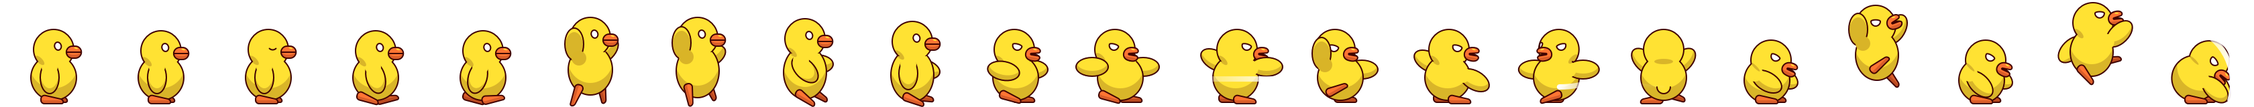
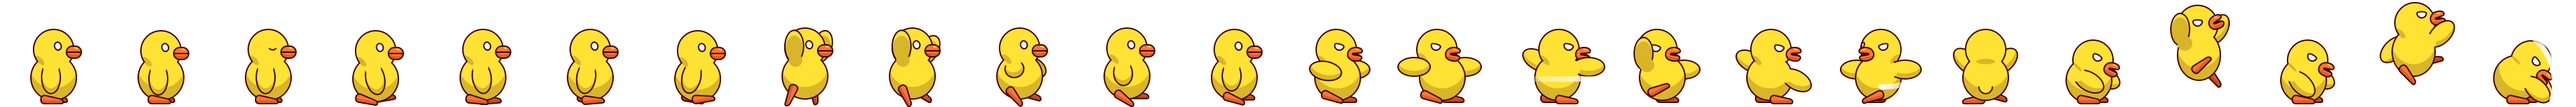
a

diff --git a/style.css b/style.css
@@ -712,6 +712,7 @@ input:focus {
 	animation-name:walk;
 	transition: none;
 	animation-iteration-count: infinite;
+	animation-direction: alternate;
 }
 [mode=jump] {
 	animation-name: jump;
@@ -743,51 +744,52 @@ input:focus {
 }
 @keyframes walk {
 	0% { background-position-x: -240px; }
-	25% { background-position-x: 0; }
-	50% { background-position-x: -320px; }
-	75% { background-position-x: 0; }
+	20% { background-position-x: -320px; }
+	40% { background-position-x: 0px; }
+	60% { background-position-x: -400px; }
+	80% { background-position-x: -480px; }
 }
 @keyframes jump {
-	0% { background-position-x: -400px; }
-	25% { background-position-x: -480px; }
-	50% { background-position-x: -560px; }
-	75% { background-position-x: -640px; }
-	100% { background-position-x: -640px; }
+	0% { background-position-x: -560px; }
+	20% { background-position-x: -640px; }
+	40% { background-position-x: -720px; }
+	60% { background-position-x: -800px; }
+	80% { background-position-x: -880px; }
 }
 @keyframes atk-1 {
-	0% { background-position-x: -720px; }
-	25% { background-position-x: -800px; }
-	50% { background-position-x: -880px; }
+	0% { background-position-x: -960px; }
+	25% { background-position-x: -1040px; }
+	50% { background-position-x: -1120px; }
 }
 @keyframes atk-2 {
-	0% { background-position-x: -720px; }
-	25% { background-position-x: -960px; }
-	50% { background-position-x: -1040px; }
+	0% { background-position-x: -960px; }
+	25% { background-position-x: -1200px; }
+	50% { background-position-x: -1280px; }
 }
 @keyframes atk-3 {
-	0% { background-position-x: -1120px; }
-	25% { background-position-x: -1200px; }
-	50% { background-position-x: -1040px; }
+	0% { background-position-x: -1360px; }
+	25% { background-position-x: -1440px; }
+	50% { background-position-x: -1280px; }
 }
 @keyframes atk-4 {
-	0% { background-position-x: -1280px; }
-	25% { background-position-x: -1360px; }
-	50% { background-position-x: -1040px; }
+	0% { background-position-x: -1520px; }
+	25% { background-position-x: -1600px; }
+	50% { background-position-x: -1280px; }
 }
 @keyframes atk-5 {
-	0% { background-position-x: -1280px; }
-	25% { background-position-x: -1440px; }
-	50% { background-position-x: -1520px; }
+	0% { background-position-x: -1520px; }
+	25% { background-position-x: -1680px; }
+	50% { background-position-x: -1760px; }
 }
 @keyframes atk-6 {
-	0% { background-position-x: -1280px; }
-	25% { background-position-x: -1360px; }
-	50% { background-position-x: -1600px; }
+	0% { background-position-x: -1520px; }
+	25% { background-position-x: -1600px; }
+	50% { background-position-x: -1840px; }
 }
 @keyframes atk-7 {
-	0% { background-position-x: -720px; }
-	25% { background-position-x: -800px; }
-	50% { background-position-x: -800px; }
+	0% { background-position-x: -960px; }
+	25% { background-position-x: -1040px; }
+	50% { background-position-x: -1040px; }
 }
 .skill {
 	width:600px;
@@ -835,29 +837,29 @@ input:focus {
 }
 [mode=walk] .weapon {
 	animation-name:weapon-walk;
-	animation-iteration-count: infinite;
 	transform: rotate(70deg);
-	/* animation-timing-function: linear; */
+	animation-direction: alternate;
 }
 [mode=jump] .weapon {
 	animation-name: weapon-jump;
 }
 @keyframes weapon-rest {
-	0% { left:-11; bottom:-21; transform: rotate(60deg)}
-	50% { left:-11; bottom:-22; transform:rotate(62deg) }
+	0% { left:-11; bottom:-21; transform: rotate(65deg)}
+	50% { left:-11; bottom:-22; transform:rotate(67deg) }
 }
 @keyframes weapon-walk {
-	0% { left:-7px; bottom:-22px; transform: rotate(55deg) }
-	25% { left:-10px; bottom:-21px; transform: rotate(60deg) }
-	50% { left:-13px; bottom:-22px; transform: rotate(65deg) }
-	75% { left:-10px; bottom:-21px;transform: rotate(60deg)}
-	100% { left:-7px; bottom:-22px; transform: rotate(55deg) }
+	0% { left:-7px; bottom:-21px; transform: rotate(62deg) }
+	20% { left:-9px; bottom:-22px; transform: rotate(64deg) }
+	40% { left:-11px; bottom:-23px; transform: rotate(66deg) }
+	60% { left:-13px; bottom:-22px;transform: rotate(68deg)}
+	80% { left:-15px; bottom:-21px; transform: rotate(70deg) }
 }
 @keyframes weapon-jump {
-	0% { left:-20; bottom:18; transform:rotate(-20deg)  }
-	50% { left:-4 ; bottom:-14; transform:rotate(30deg) }
-	75% { left:-11 ; bottom:-20; transform:rotate(60deg) }
-	100% { left:-11 ; bottom:-20; transform:rotate(60deg) }
+	0% { left:-16; bottom:16; transform:rotate(0deg)  }
+	20% { left:-16; bottom:16; transform:rotate(0deg) }
+	40% { left:-13 ; bottom:-10; transform:rotate(40deg) }
+	60% { left:-12 ; bottom:-16; transform:rotate(60deg) }
+	80% { left:-11 ; bottom:-20; transform:rotate(65deg) }
 }
 @keyframes weapon-1 {
 	0% { left:-13; bottom:-10; transform: rotate(60deg); }
@@ -921,17 +923,18 @@ input:focus {
 	animation-name: weapon-range-rest;
 }
 @keyframes weapon-range-rest {
-	0% { left:-10; bottom:-21; transform:rotate(168deg)}
-	50% { left:-10; bottom:-22; transform:rotate(170deg) }
+	0% { left:-9; bottom:-22; transform:rotate(165deg)}
+	50% { left:-9; bottom:-23; transform:rotate(167deg) }
 }
 [mode=walk] .weapon[type='range'] {
 	animation-name: weapon-range-walk;
 }
 @keyframes weapon-range-walk {
-	0% { left:-7px; bottom:-22px; transform: rotate(165deg) }
-	25% { left:-10px; bottom:-21px; transform: rotate(170deg) }
-	50% { left:-13px; bottom:-22px; transform: rotate(175deg) }
-	75% { left:-10px; bottom:-21px;transform: rotate(170deg)}
+	0% { left:-5px; bottom:-21px; transform: rotate(162deg) }
+	20% { left:-7px; bottom:-22px; transform: rotate(164deg) }
+	40% { left:-9px; bottom:-23px; transform: rotate(166deg) }
+	60% { left:-11px; bottom:-22px;transform: rotate(168deg)}
+	80% { left:-13px; bottom:-21px; transform: rotate(170deg) }
 }
 @keyframes weapon-7 {
 	0% { left:5; bottom:-8; transform: rotate(90deg); background-position: 0 0; }
@@ -945,9 +948,11 @@ input:focus {
 	animation-name: weapon-range-jump;
 }
 @keyframes weapon-range-jump {
-	0% { left:-20; bottom:18; transform:rotate(0deg)  }
-	50% { left:-4 ; bottom:-14; transform:rotate(110deg) }
-	75% { left:-11 ; bottom:-20; transform:rotate(130deg) }
+	0% { left:-17; bottom:16; transform:rotate(0deg)  }
+	20% { left:-17; bottom:16; transform:rotate(0deg) }
+	40% { left:-11 ; bottom:-8; transform:rotate(90deg) }
+	60% { left:-9 ; bottom:-16; transform:rotate(140deg) }
+	80% { left:-9 ; bottom:-20; transform:rotate(150deg) }
 }
 .projectile {
 	position: absolute;

diff --git a/game.js b/game.js
@@ -59,6 +59,7 @@ function enterMap(originMap) {
 	});
 	(Object.keys(maps[player.location].npc)).forEach(npc => {
 		imagesToLoad.push(`assets/npc-${npc}.webp`);
+		imagesToLoad.push(`assets/avatar-${npc}.webp`);
 	});
 
 	setTimeout(() => {
@@ -177,7 +178,7 @@ function placeNPC(npc) {
 	.css('margin-bottom', maps[player.location].npc[npc][1]+'px')
 	.find('.image')
 	.css({
-		'background-image': 'url(assets/npc-' + npc + '.webp?2)',
+		'background-image': 'url(assets/npc-' + npc + '.webp)',
 		'background-size': npcs[npc].size[0] * 5 + 'px',
 		'width': npcs[npc].size[0],
 		'height': npcs[npc].size[1]
@@ -245,7 +246,7 @@ function jump() {
 	mode('jump')
 	hero.addClass('jumping')
 	setTimeout(() => hero.removeClass('jumping'), 400);
-	setTimeout(() => { mode('rest'); sound('land') }, 800);
+	setTimeout(() => { mode('rest'); sound('land') }, 790);
 	sound('jump')
 }
 
@@ -658,6 +659,8 @@ function calcItemPrice(item) {
 }
 
 function interact() {
+	if (mode() == 'fight' || mode() == 'jump' || mode() == 'skill' || attackCooldown) return
+
 	$('.port:not(.used)').each(function() {
 		if (player.position < i($(this),'left') ||
 			player.position > i($(this),'left') + i($(this),'width'))
@@ -1067,7 +1070,7 @@ function mode(mode) {
 		hero.find('.equipment').attr('mode',mode) 
 	}
 	modeDurations = {
-		walk: (80 - player.speed) * 7 + 'ms',
+		walk: (80 - player.speed) * 4 + 'ms',
 		rest: '2000ms',
 		jump: '800ms',
 		fight: '400ms'

diff --git a/tools/keyframer.html b/tools/keyframer.html
@@ -9,7 +9,7 @@
 
 <div class="hero" mode="jump" direction="1" style="transform: scaleX(1);">
 	<div style="background-image:url(assets/hat-red-bandana.png)" class="equipment" mode="rest"></div>
-	<img src="../assets/weapon-wood-sword.png" class="weapon">
+	<img style="width:96px;" src="../assets/weapon-wood-sword.webp" class="weapon">
 </div>
 
 <script>
